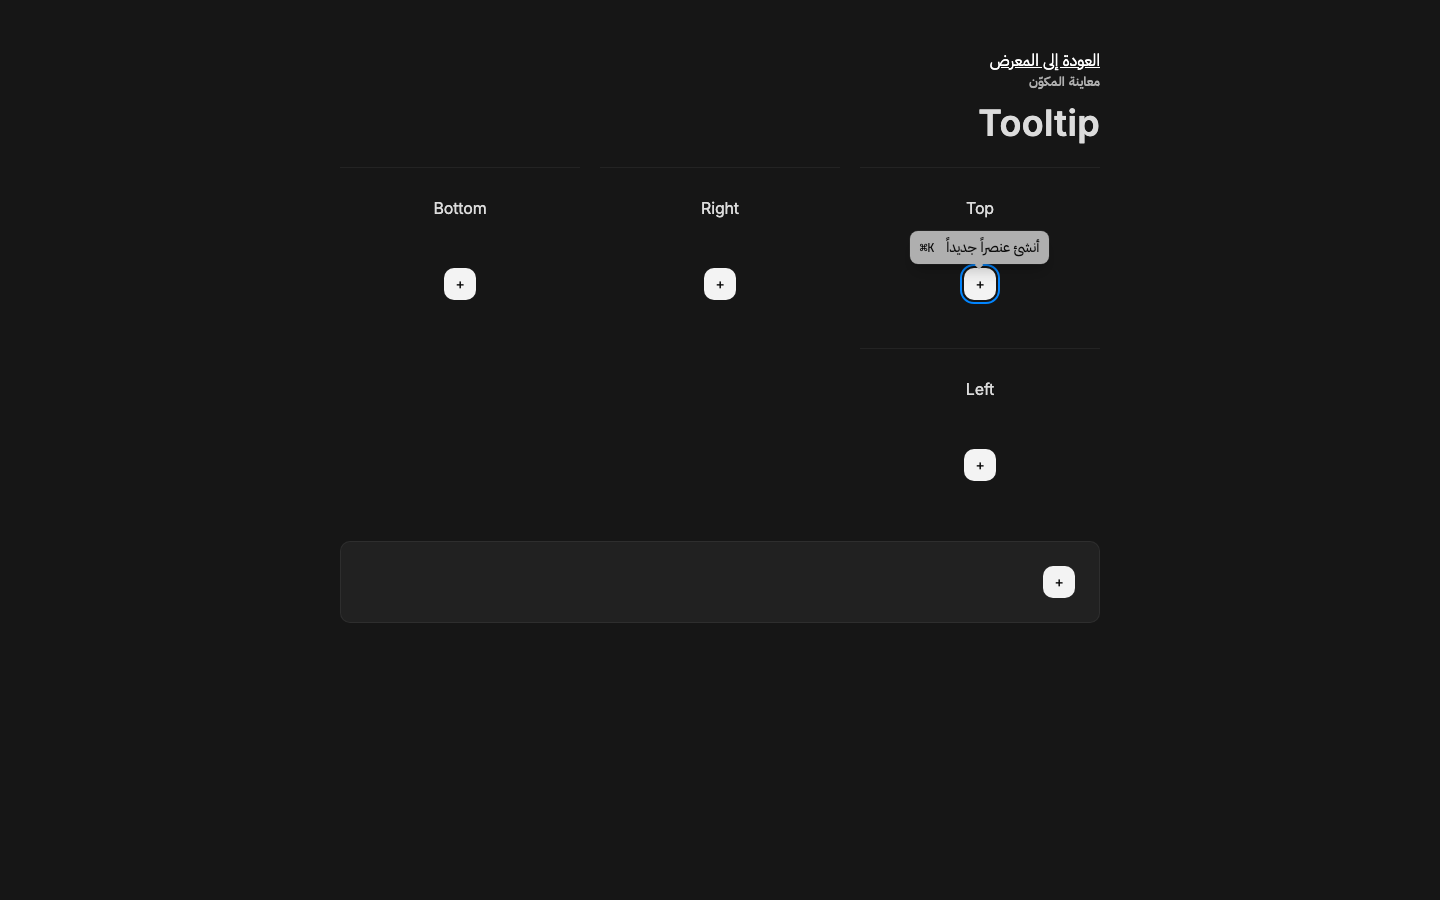
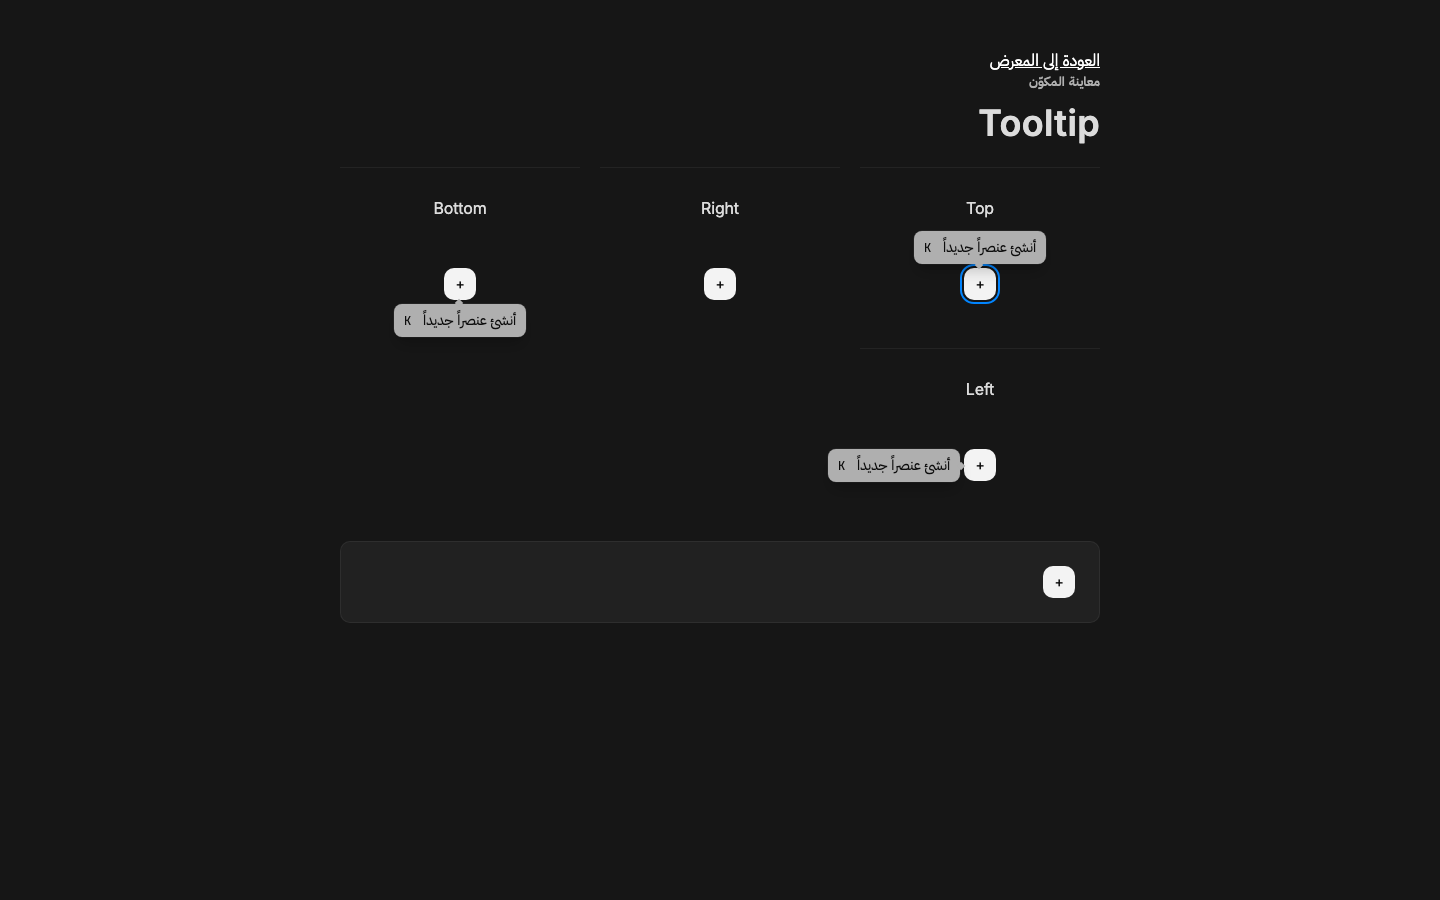
no-mistakes: evidence for feat/v0.1-foundation-016-tooltip (run 01M7Q492AVMJCAE3MNAWAJJCFJ)

Changed region(s): [[0.5625, 0.4978, 0.6875, 0.56], [0.25, 0.3111, 0.375, 0.3733], [0.625, 0.2489, 0.7188, 0.28]]

diff --git a/.no-mistakes/evidence/feat/v0.1-foundation-016-tooltip/tooltip-validation.spec.ts b/.no-mistakes/evidence/feat/v0.1-foundation-016-tooltip/tooltip-validation.spec.ts
@@ -1,0 +1,50 @@
+import { test, expect } from '@playwright/test';
+import { mkdir, writeFile } from 'node:fs/promises';
+import { openPreview, expectAccessible, expectThemeFocusRing, expectNoHorizontalScroll } from './helpers/preview';
+const evidence = '~/.no-mistakes/evidence/01M7Q492AVMJCAE3MNAWAJJCFJ';
+const observations: unknown[] = [];
+test.afterAll(async () => { await writeFile(`${evidence}/tooltip-observations.json`, JSON.stringify(observations, null, 2)); });
+for (const locale of ['en','ar'] as const) for (const theme of ['light','dark'] as const) {
+ test(`${locale} ${theme}: focus, dismissal, hover, OpenUI and responsive appearance`, async ({page}) => {
+  await mkdir(evidence, {recursive:true});
+  const state = { locale, direction: locale === 'ar' ? 'rtl' as const : 'ltr' as const, theme };
+  const label = locale === 'en' ? 'Add item' : 'إضافة عنصر';
+  const hint = locale === 'en' ? 'Create a new item' : 'أنشئ عنصراً جديداً';
+  await openPreview(page, state, '/components/Tooltip');
+  await expectThemeFocusRing(page, theme);
+  await page.keyboard.press('Tab');
+  const trigger = page.getByRole('button', {name:label}).first();
+  const tip = page.locator('[data-slot="tooltip-content"]').first();
+  await expect(trigger).toBeFocused(); await expect(tip).toBeVisible(); await expect(tip).toContainText(hint);
+  await expect(trigger).toHaveAttribute('aria-describedby', await tip.getAttribute('id') as string);
+  await expect(tip.locator('[data-slot="tooltip-shortcut"]')).toContainText('K');
+  await expect(trigger).toHaveCSS('outline-width','2px'); await expect(trigger).toHaveCSS('outline-offset','2px');
+  await expect(trigger).toHaveCSS('outline-color',theme === 'light' ? 'rgb(1, 105, 204)' : 'rgb(2, 133, 255)');
+  await expectAccessible(page);
+  for (const width of [1440,390]) {
+   await page.setViewportSize({width,height:900}); await page.evaluate(()=>document.fonts.ready);
+   await expect(page.locator('[data-starting-style], [data-ending-style]')).toHaveCount(0);
+   await expect(tip).toBeVisible();
+   await expect.poll(async () => page.locator('[data-slot="tooltip-content"][data-open]').evaluateAll(els => els.every(el => {const b=el.getBoundingClientRect();return b.x >= 0 && b.right <= innerWidth;}))).toBe(true);
+   const geometry = await page.locator('[data-slot="tooltip-content"][data-open]').evaluateAll(els=>els.map(el=>{
+    const b=el.getBoundingClientRect(); const s=getComputedStyle(el);
+    return {text:el.textContent, side:el.getAttribute('data-side'), x:b.x,right:b.right,y:b.y,bottom:b.bottom,background:s.backgroundColor,color:s.color};
+   }));
+   for (const g of geometry) {expect(g.x).toBeGreaterThanOrEqual(0); expect(g.right).toBeLessThanOrEqual(width);}
+   expect(geometry[0].background).toBe(theme==='light'?'rgb(48, 48, 48)':'rgb(175, 175, 175)');
+   expect(geometry[0].color).toBe(theme==='light'?'rgb(255, 255, 255)':'rgb(13, 13, 13)');
+   observations.push({locale,theme,width,geometry});
+   await page.screenshot({path:`${evidence}/tooltip-${locale}-${theme}-${width}.png`, fullPage:true,animations:'disabled'});
+  }
+  await expectNoHorizontalScroll(page);
+  await page.keyboard.press('Escape'); await expect(tip).not.toBeVisible(); await expect(trigger).toBeFocused();
+  await page.getByRole('link').first().focus(); await trigger.hover(); await expect(tip).toBeVisible();
+  await page.mouse.move(0,0); await expect(tip).not.toBeVisible();
+  const fixture = page.getByRole('region',{name:locale==='en'?'OpenUI fixture':'عينة OpenUI'});
+  const fixtureTrigger=fixture.getByRole('button',{name:label});
+  await fixtureTrigger.focus();
+  const fixtureTip=fixture.getByRole('tooltip'); await expect(fixtureTip).toBeVisible(); await expect(fixtureTip).toContainText(hint);
+  await expect(fixtureTrigger).toHaveAttribute('aria-describedby',await fixtureTip.getAttribute('id') as string);
+  await page.keyboard.press('Escape'); await expect(fixtureTip).not.toBeVisible(); await expect(fixtureTrigger).toBeFocused();
+ });
+}

diff --git a/.no-mistakes/evidence/feat/v0.1-foundation-016-tooltip/tooltip-playwright.config.ts b/.no-mistakes/evidence/feat/v0.1-foundation-016-tooltip/tooltip-playwright.config.ts
@@ -1,0 +1,3 @@
+import { defineConfig } from '@playwright/test';
+import base from '../playwright.config';
+export default defineConfig({...base, testDir:'../e2e', outputDir:'~/.no-mistakes/evidence/01M7Q492AVMJCAE3MNAWAJJCFJ/playwright-results', use:{...base.use,baseURL:'http://127.0.0.1:5189'}, webServer:{cwd:'{run-worktree}/apps/preview',command:'npm run build && npx wrangler dev --config dist/server/wrangler.json --ip 127.0.0.1 --port 5189',url:'http://127.0.0.1:5189',reuseExistingServer:false,timeout:120000}});
